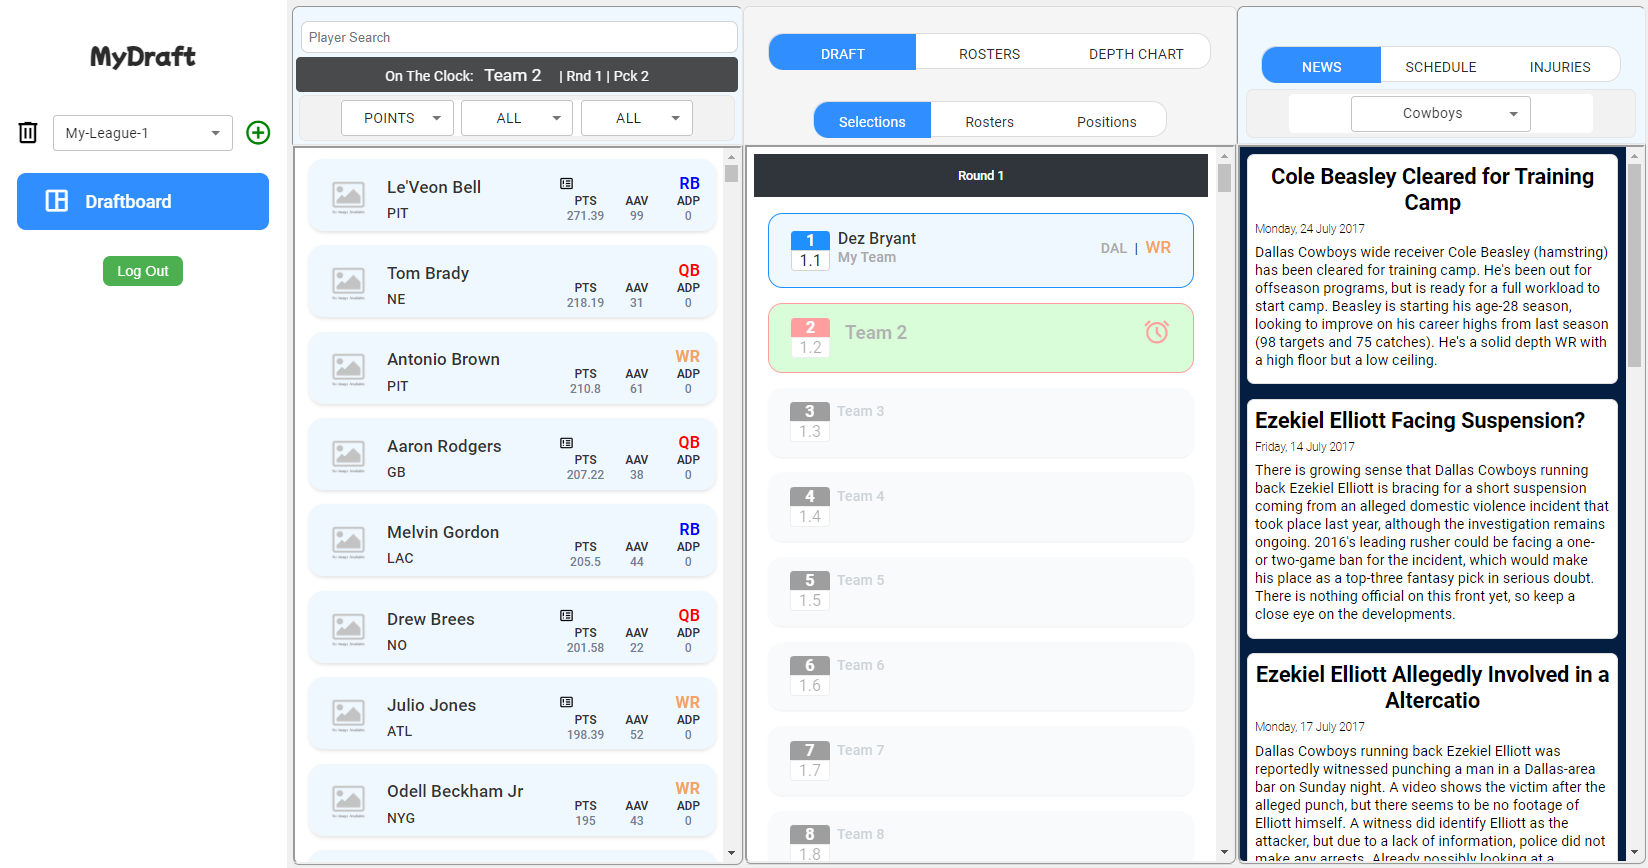
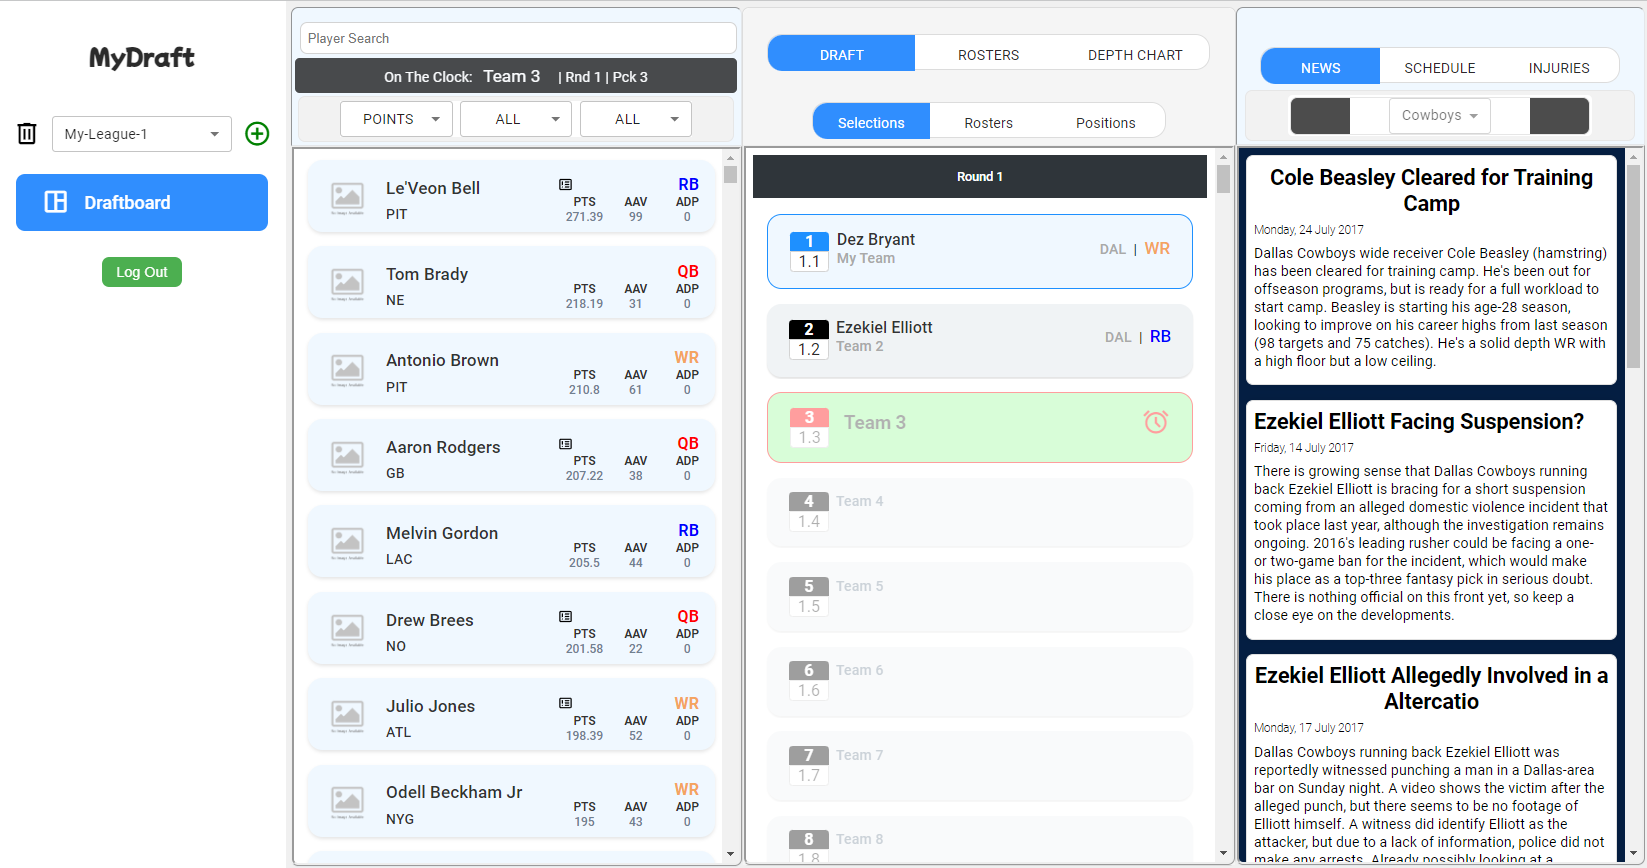
-  CSS Updates...

diff --git a/src/components/draft-proTeam-info/index.js b/src/components/draft-proTeam-info/index.js
@@ -35,29 +35,40 @@ const ProTeamInfo = () => {
           <div className="proteam-filter-content">
             <div className="display-proteam-info-filter">
               <React.Fragment>
-                <div style={{ width: "100%" }}>
+                <div
+                  style={{
+                    width: "100%",
+                    background: "black",
+                    opacity: "0.7",
+                    borderRadius: ".5rem",
+                    border: "1px solid #DCDCDC",
+                  }}
+                >
                   {/* <InputLabel id="playerFilterSelect-label">{label}</InputLabel> */}
                   <FormControl sx={{ minWidth: 200 }} size={"small"}>
-                    <Select
-                      labelId="proTeamSelect-label"
-                      id="proTeamSelect"
-                      value={selectedItem}
-                      onChange={(event) => {
-                        const selectedValue = event.target.value;
-                        setSelectedItem(selectedValue);
+                    <div style={{ width: "100%", background: "white" }}>
+                      <Select
+                        labelId="proTeamSelect-label"
+                        id="proTeamSelect"
+                        value={selectedItem}
+                        onChange={(event) => {
+                          const selectedValue = event.target.value;
+                          setSelectedItem(selectedValue);
 
-                        const selectedLabel =
-                          data.find((option) => option.value === selectedValue)
-                            ?.label || "";
-                        setSelectedItemLabel(selectedLabel);
-                      }}
-                    >
-                      {data.map((option, index) => (
-                        <MenuItem key={index} value={option.value}>
-                          {option.label}
-                        </MenuItem>
-                      ))}
-                    </Select>
+                          const selectedLabel =
+                            data.find(
+                              (option) => option.value === selectedValue
+                            )?.label || "";
+                          setSelectedItemLabel(selectedLabel);
+                        }}
+                      >
+                        {data.map((option, index) => (
+                          <MenuItem key={index} value={option.value}>
+                            {option.label}
+                          </MenuItem>
+                        ))}
+                      </Select>
+                    </div>
                   </FormControl>
                 </div>
               </React.Fragment>
@@ -66,13 +77,22 @@ const ProTeamInfo = () => {
         </div>
         <div className="detail-container">
           <TabPanel>
-            <ProTeamNews teamID={selectedItem} teamNickname={selectedItemLabel} />
+            <ProTeamNews
+              teamID={selectedItem}
+              teamNickname={selectedItemLabel}
+            />
           </TabPanel>
           <TabPanel>
-            <ProTeamSchedule teamID={selectedItem} teamNickname={selectedItemLabel} />
+            <ProTeamSchedule
+              teamID={selectedItem}
+              teamNickname={selectedItemLabel}
+            />
           </TabPanel>
           <TabPanel>
-            <ProTeamInjuries teamID={selectedItem} teamNickname={selectedItemLabel} />
+            <ProTeamInjuries
+              teamID={selectedItem}
+              teamNickname={selectedItemLabel}
+            />
           </TabPanel>
         </div>
       </Tabs>
